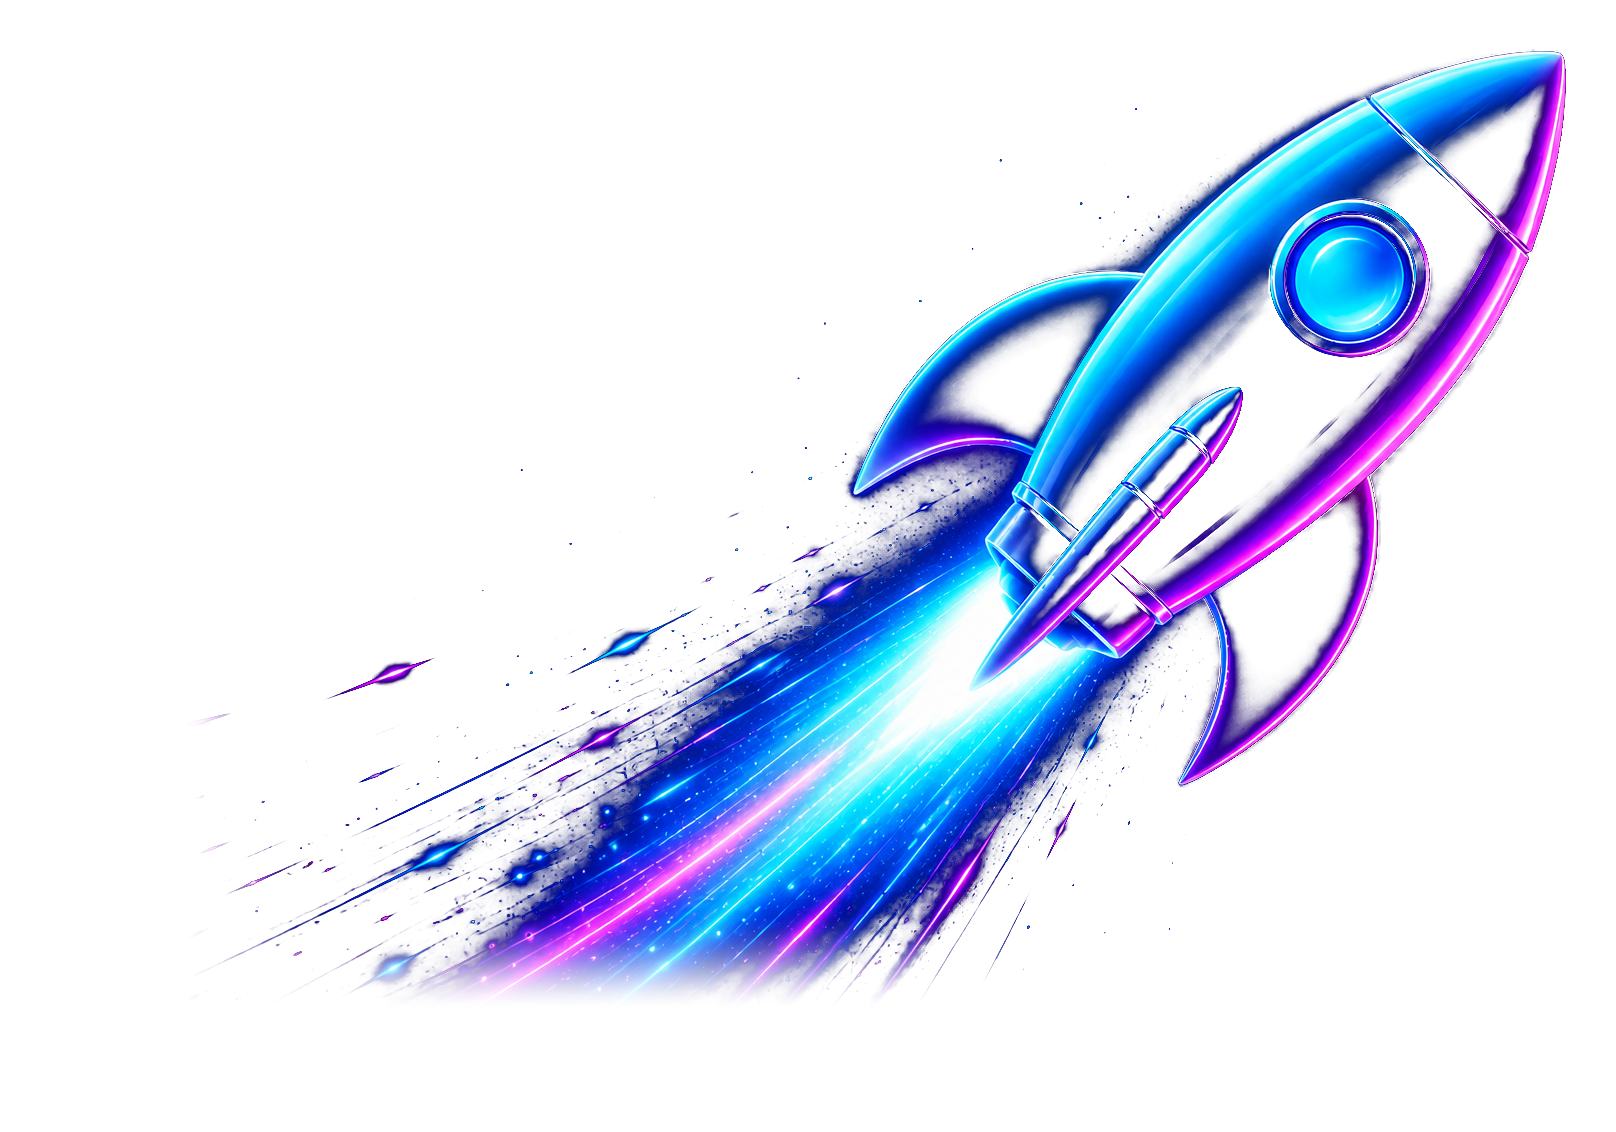
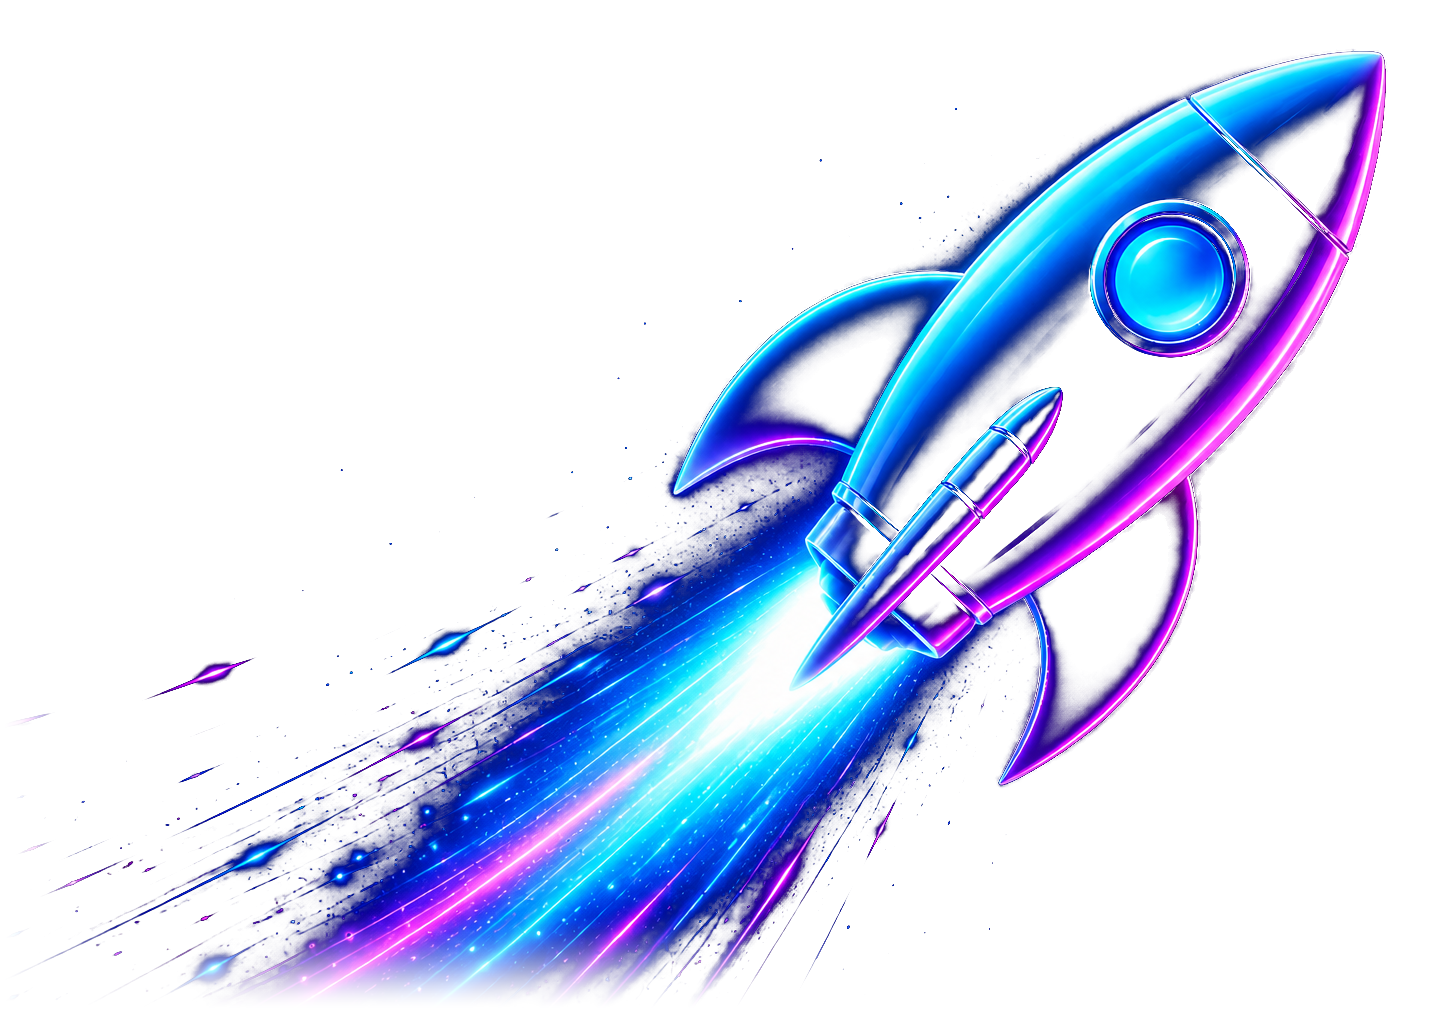
fix: revert homepage hero to pre-62d665f state
Undo the unintended changes from 62d665f on the homepage only:
- Restore SPACE_BACKDROP_HTML (stitch-grid) for homepage instead of global fixed backdrop
- Put launch-visual (rocket, flow-ribbons, browser card) back inside the hero section
- Restore original inline perlin canvas script with original alpha values (0.08-0.18)
- Restore original rocket image from 6d648d2
- Pricing/privacy/terms keep the GLOBAL_LAUNCH_BACKDROP_HTML unchanged

Generated with [Devin](https://cli.devin.ai/docs)

diff --git a/src/server/public-pages.js b/src/server/public-pages.js
@@ -8,8 +8,7 @@ import {
 import { escapeHtml } from '@ship-fast/engine/renderers/shared.js'
 import { sfGlassPillBody, sfGlassPillSvgDefs } from './liquid-glass-button.js'
 import {
-  GLOBAL_LAUNCH_BACKDROP_HTML,
-  renderLaunchBackdropScript,
+  SPACE_BACKDROP_HTML,
   renderTopActions,
 } from './marketing-shell.js'
 
@@ -329,7 +328,7 @@ export function renderHomePage(siteSettings = null) {
       } catch (e) {}
     </script>
 
-    ${GLOBAL_LAUNCH_BACKDROP_HTML}
+    ${SPACE_BACKDROP_HTML}
 
     ${renderAuthOverlay()}
 
@@ -364,6 +363,7 @@ export function renderHomePage(siteSettings = null) {
       ${heroBlock}
 
       <section class="launch-hero" aria-label="Instant AI websites">
+        <canvas class="launch-perlin-canvas" aria-hidden="true"></canvas>
         <div class="launch-copy">
           <p class="launch-eyebrow">Prompt. Generate. Launch.</p>
           <h2 class="launch-title">Instant AI Websites</h2>
@@ -503,6 +503,60 @@ export function renderHomePage(siteSettings = null) {
             ${renderExamplePromptChips()}
           </div>
         </div>
+
+        <div class="launch-visual" aria-hidden="true">
+          <div class="launch-orbit launch-orbit--one"></div>
+          <div class="launch-orbit launch-orbit--two"></div>
+
+          <div class="launch-browser-card">
+            <div class="launch-browser-bar">
+              <span></span><span></span><span></span>
+            </div>
+            <div class="launch-browser-body">
+              <div class="launch-browser-preview"></div>
+              <div class="launch-browser-lines">
+                <span></span><span></span><span></span><span></span><span></span>
+              </div>
+            </div>
+          </div>
+
+          <div class="launch-flow">
+            <span class="flow-flame flow-flame--halo"></span>
+            <span class="flow-flame flow-flame--core"></span>
+            <span class="flow-ribbon flow-ribbon--one"></span>
+            <span class="flow-ribbon flow-ribbon--two"></span>
+            <span class="flow-ribbon flow-ribbon--three"></span>
+            <span class="flow-word flow-word--one">WEB STARTUP</span>
+            <span class="flow-word flow-word--two">PORTFOLIO</span>
+            <span class="flow-word flow-word--three">SAAS</span>
+            <span class="flow-word flow-word--four">LOCAL BUSINESS</span>
+            <span class="flow-word flow-word--five">ECOMMERCE</span>
+            <span class="flow-particle flow-particle--one"></span>
+            <span class="flow-particle flow-particle--two"></span>
+            <span class="flow-particle flow-particle--three"></span>
+            <span class="flow-particle flow-particle--four"></span>
+            <span class="flow-particle flow-particle--five"></span>
+          </div>
+          <img class="launch-rocket" src="/assets/launch-rocket.png" alt="" loading="eager" decoding="async" />
+
+          <div class="launch-feature-cards">
+            <div class="launch-feature-card">
+              <span class="launch-feature-icon">AI</span>
+              <strong>AI Generate</strong>
+              <p>Describe your idea and watch AI build your website.</p>
+            </div>
+            <div class="launch-feature-card">
+              <span class="launch-feature-icon">ED</span>
+              <strong>Edit &amp; Refine</strong>
+              <p>Customize design, content, and layout.</p>
+            </div>
+            <div class="launch-feature-card">
+              <span class="launch-feature-icon">EX</span>
+              <strong>Export &amp; Deploy</strong>
+              <p>Export clean code and deploy with one click.</p>
+            </div>
+          </div>
+        </div>
       </section>
       </div>
 
@@ -543,7 +597,115 @@ export function renderHomePage(siteSettings = null) {
 
     <script type="module" src="/scripts/top-actions-auth.js${process.env.NODE_ENV === 'production' ? '' : `?v=${Date.now()}`}"></script>
     <script type="module" src="/scripts/homepage.js${process.env.NODE_ENV === 'production' ? '' : `?v=${Date.now()}`}"></script>
-    ${renderLaunchBackdropScript()}
+    <script>
+      (() => {
+        const canvas = document.querySelector('.launch-perlin-canvas');
+        const hero = canvas && canvas.closest('.launch-hero');
+        if (!canvas || !hero || window.matchMedia('(prefers-reduced-motion: reduce)').matches) return;
+
+        const ctx = canvas.getContext('2d', { alpha: true });
+        const particles = [];
+        const dpr = Math.min(window.devicePixelRatio || 1, 2);
+        let width = 0;
+        let height = 0;
+        let tick = 0;
+
+        function noise2d(x, y) {
+          const n = Math.sin(x * 12.9898 + y * 78.233) * 43758.5453;
+          return n - Math.floor(n);
+        }
+
+        function smoothNoise(x, y) {
+          const ix = Math.floor(x);
+          const iy = Math.floor(y);
+          const fx = x - ix;
+          const fy = y - iy;
+          const a = noise2d(ix, iy);
+          const b = noise2d(ix + 1, iy);
+          const c = noise2d(ix, iy + 1);
+          const d = noise2d(ix + 1, iy + 1);
+          const ux = fx * fx * (3 - 2 * fx);
+          const uy = fy * fy * (3 - 2 * fy);
+          return a + (b - a) * ux + (c - a) * uy + (a - b - c + d) * ux * uy;
+        }
+
+        function resetParticle(p, edge) {
+          p.x = edge === 'left' ? -12 : Math.random() * width;
+          p.y = Math.random() * height;
+          p.life = 0.45 + Math.random() * 0.55;
+          p.speed = 0.45 + Math.random() * 1.35;
+          p.size = 0.45 + Math.random() * 1.05;
+          p.seed = Math.random() * 200;
+          p.hue = Math.random() > 0.42 ? 190 : 310;
+          p.alpha = 0.08 + Math.random() * 0.18;
+        }
+
+        function resize() {
+          const rect = hero.getBoundingClientRect();
+          width = Math.max(1, rect.width);
+          height = Math.max(1, rect.height);
+          canvas.width = Math.floor(width * dpr);
+          canvas.height = Math.floor(height * dpr);
+          ctx.setTransform(dpr, 0, 0, dpr, 0, 0);
+
+          const target = Math.max(150, Math.min(260, Math.floor((width * height) / 9000)));
+          while (particles.length < target) {
+            const p = {};
+            resetParticle(p);
+            particles.push(p);
+          }
+          particles.length = target;
+        }
+
+        function draw() {
+          if (!document.body.contains(canvas)) return;
+          window.requestAnimationFrame(draw);
+          tick += 1;
+
+          ctx.globalCompositeOperation = 'source-over';
+          ctx.fillStyle = 'rgba(2, 4, 18, 0.065)';
+          ctx.fillRect(0, 0, width, height);
+          ctx.globalCompositeOperation = 'lighter';
+
+          for (const p of particles) {
+            const px = p.x;
+            const py = p.y;
+            const n = smoothNoise(p.x * 0.0036 + tick * 0.0007, p.y * 0.0036 + p.seed);
+            const drift = smoothNoise(p.x * 0.0022, p.y * 0.0022 + 50);
+            const angle = n * Math.PI * 5.4 - Math.PI * 0.22;
+            const speed = p.speed * (0.75 + drift * 1.45);
+
+            p.x += Math.cos(angle) * speed + 0.34;
+            p.y += Math.sin(angle) * speed * 0.82;
+            p.life -= 0.0011;
+
+            if (p.life <= 0 || p.x < -40 || p.x > width + 40 || p.y < -40 || p.y > height + 40) {
+              resetParticle(p, Math.random() > 0.35 ? 'left' : undefined);
+              continue;
+            }
+
+            const pulse = 0.65 + Math.sin((tick * 0.035) + p.seed) * 0.35;
+            const alpha = Math.max(0, p.life) * p.alpha * pulse;
+            ctx.beginPath();
+            ctx.moveTo(px, py);
+            ctx.lineTo(p.x, p.y);
+            ctx.strokeStyle = 'hsla(' + p.hue + ', 100%, 62%, ' + alpha + ')';
+            ctx.lineWidth = p.size;
+            ctx.stroke();
+          }
+
+          ctx.globalAlpha = 1;
+        }
+
+        resize();
+        if ('ResizeObserver' in window) {
+          new ResizeObserver(resize).observe(hero);
+        } else {
+          window.addEventListener('resize', resize, { passive: true });
+        }
+        draw();
+      })();
+    </script>
     ${DEV_HOME_HOT_RELOAD_SNIPPET}
   </body>
 </html>`

diff --git a/src/server/marketing-shell.js b/src/server/marketing-shell.js
@@ -90,8 +90,14 @@ export const GLOBAL_LAUNCH_BACKDROP_HTML = `
   </div>
 `
 
-/** @deprecated Use GLOBAL_LAUNCH_BACKDROP_HTML — kept for existing imports. */
-export const SPACE_BACKDROP_HTML = GLOBAL_LAUNCH_BACKDROP_HTML
+export const SPACE_BACKDROP_HTML = `
+  <div class="stitch-grid" id="stitch-grid">
+    <div class="stitch-grid__layer"></div>
+    <div class="stitch-grid__layer stitch-grid__layer--lit" id="stitch-grid-lit"></div>
+  </div>
+  <div class="blackhole-vortex"></div>
+  <div class="blackhole-ring"></div>
+`
 
 export const renderLaunchBackdropScript = () =>
   `<script type="module" src="/scripts/launch-backdrop.js${process.env.NODE_ENV === 'production' ? '' : `?v=${Date.now()}`}"></script>`
